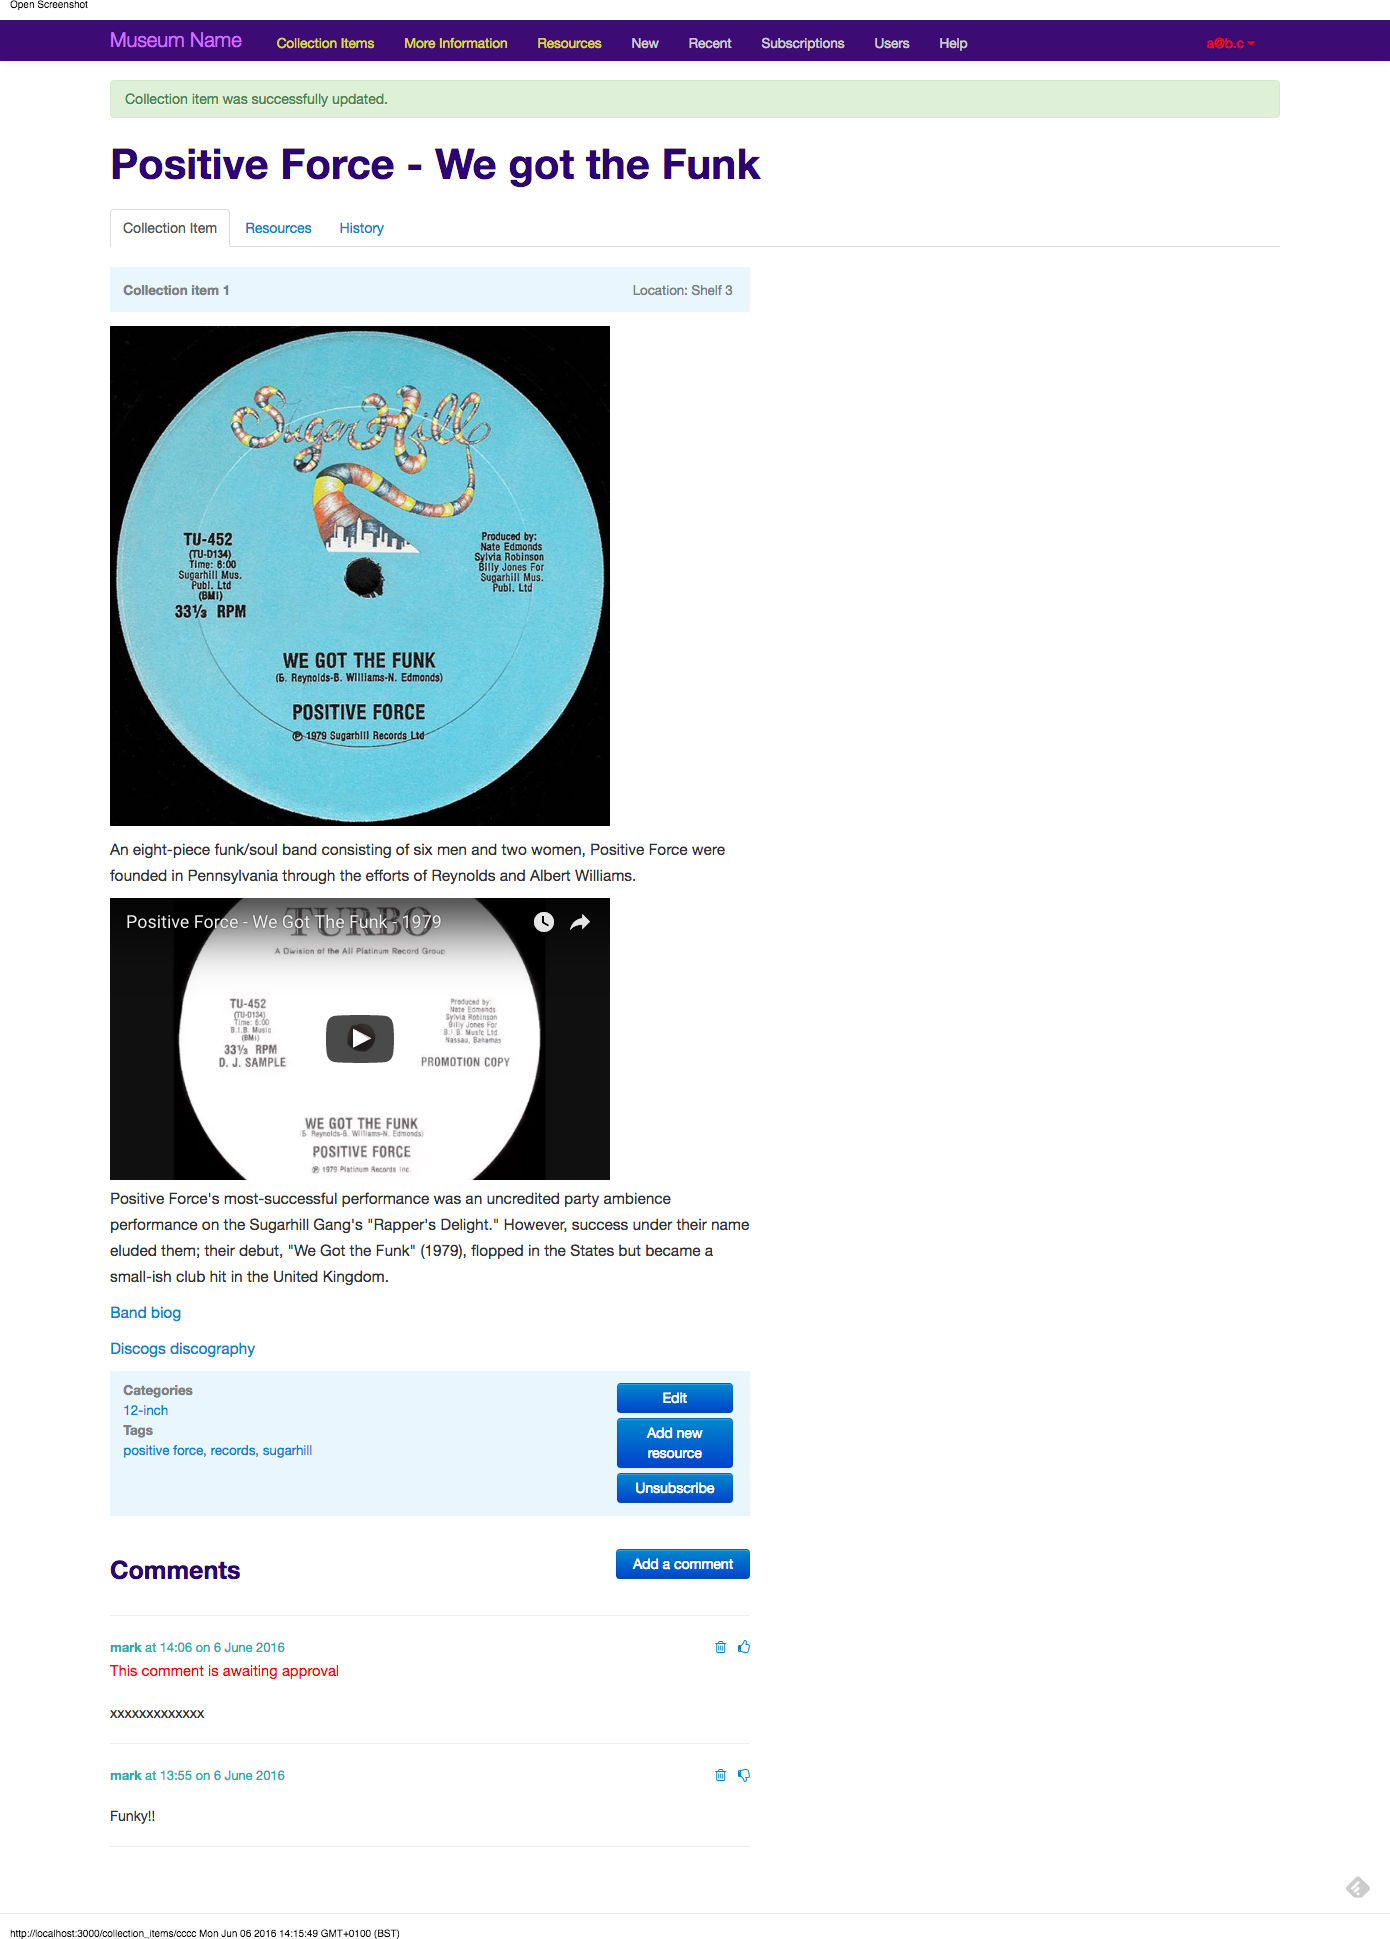
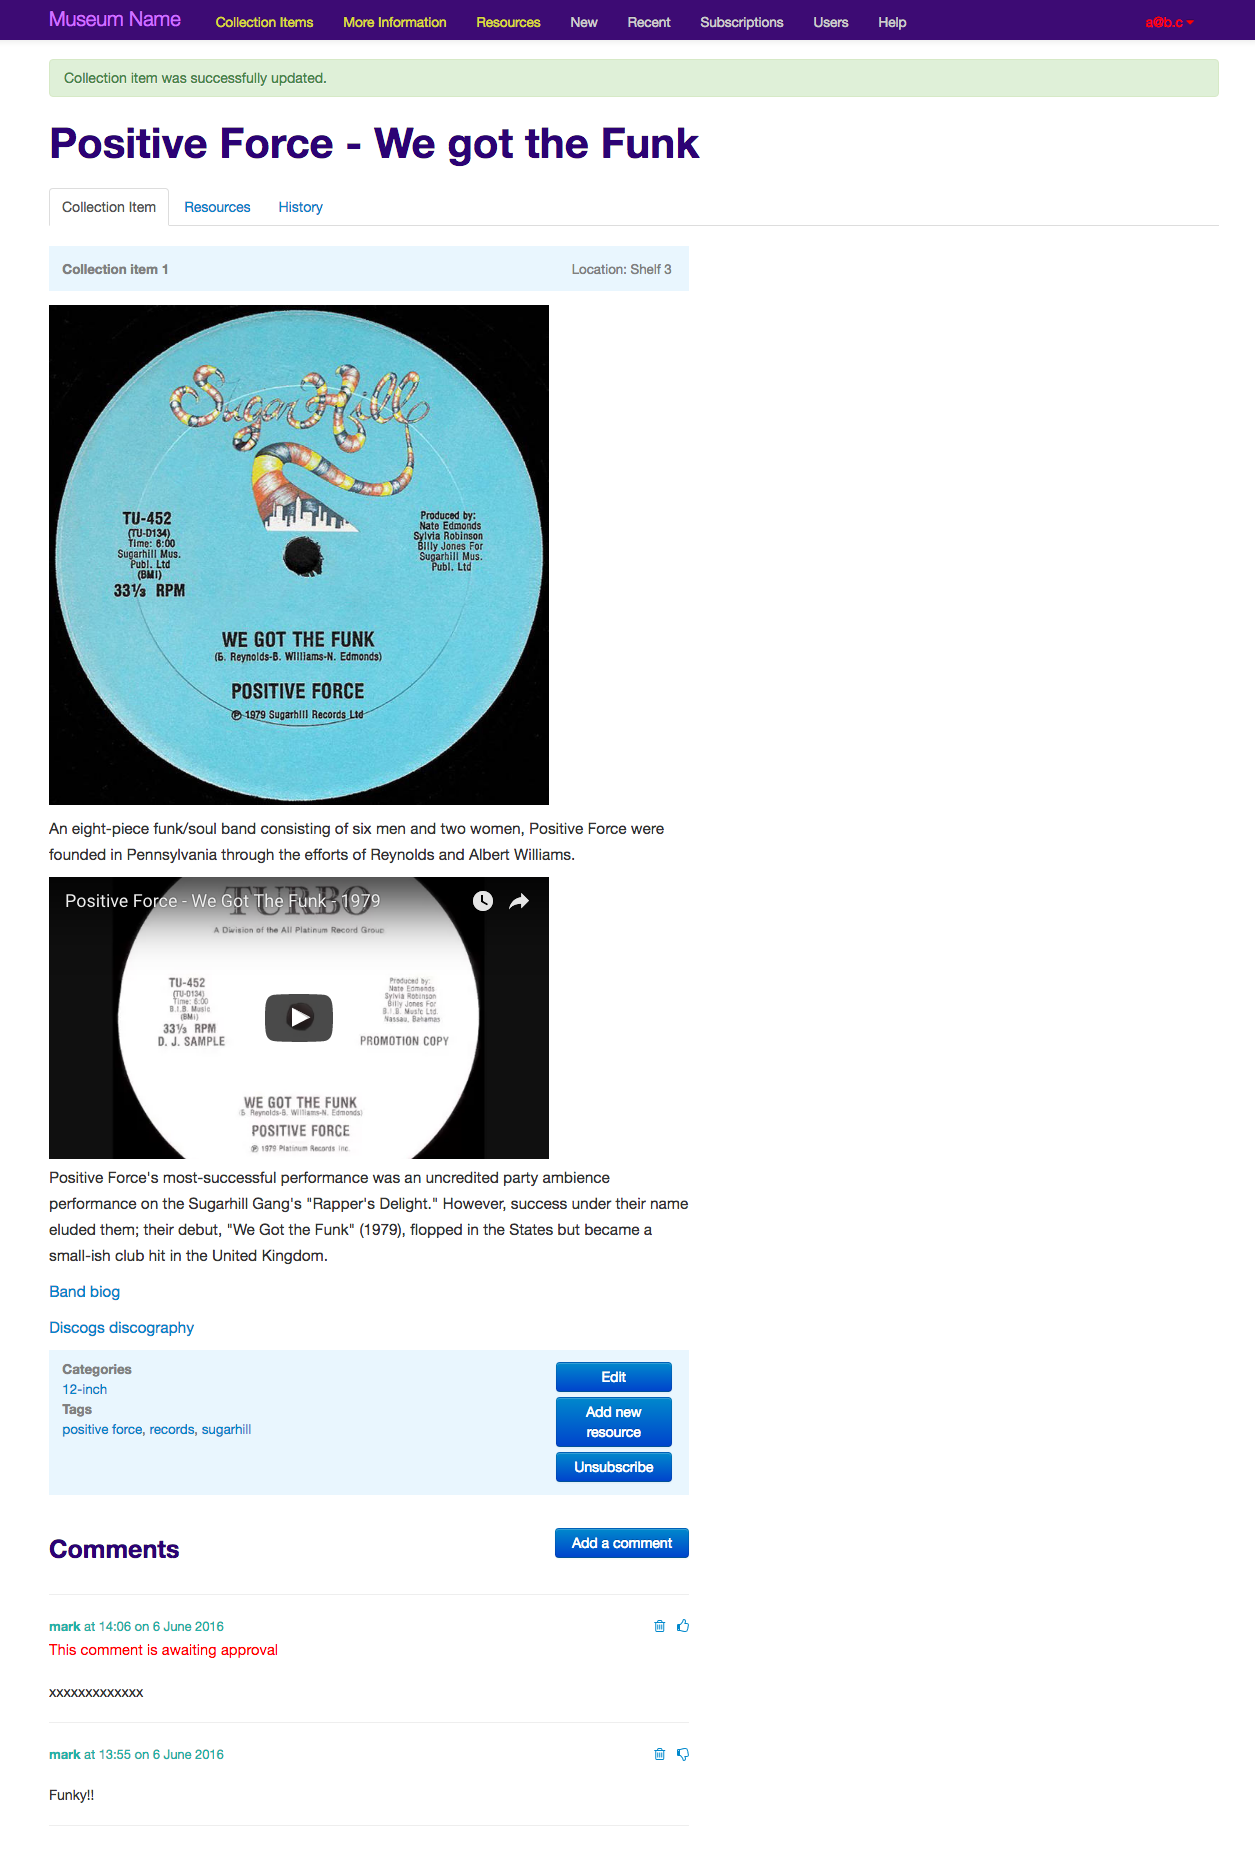
more page improvements across the board

diff --git a/_sass/minima.scss b/_sass/minima.scss
@@ -15,6 +15,8 @@ $toc-link-font-size: 18px;
 $nav-font-size:      24px;
 
 $text-color:       #666 !default;
+$heading-color:     #606060 !default;
+$frame-color:      #ccc !default;
 $background-color: #fdfdfd !default;
 $brand-color: rgba(11, 13, 133, 0.66) !default;
 

diff --git a/_sass/minima/_layout.scss b/_sass/minima/_layout.scss
@@ -307,7 +307,12 @@
   }
 }
 
-p > img { margin-bottom: $spacing-unit; }
+img {
+  margin-left: 30px;
+  border: 1px solid $frame-color;
+  max-width: 75%;
+  margin-bottom: $spacing-unit;
+}
 
 
 /**

diff --git a/_sass/minima/_base.scss b/_sass/minima/_base.scss
@@ -99,6 +99,7 @@ li {
  */
 h1, h2, h3, h4, h5, h6 {
   font-weight: $base-font-weight;
+  color: $heading-color;
 }
 
 h1, h2, h3 { font-weight: $base-font-weight; }
